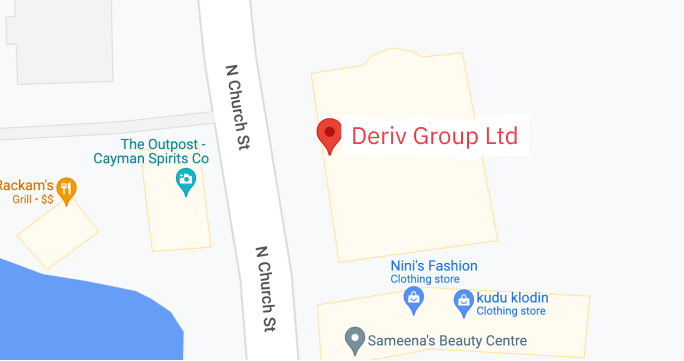
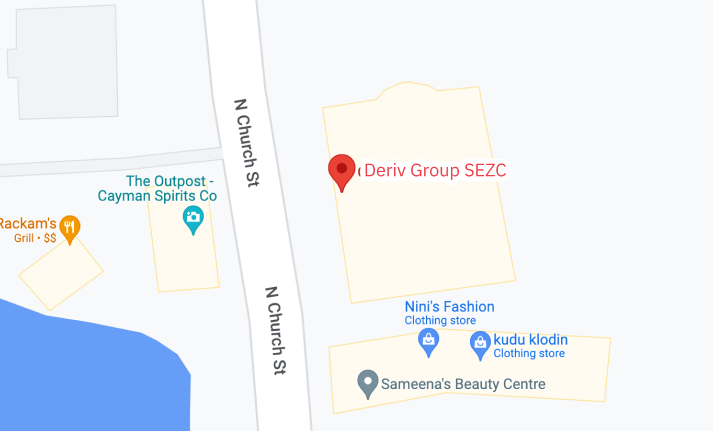
Konstantinos / [FE Deriv.com squad] [Office] Update the names in the office location pages for all of the offices (#4030)
* fix: update office names

* chore: fix asuncion name

* auto-pull-translation

* chore: change desc name

* feat: change title and photo

diff --git a/src/pages/careers/_model/_locations/_locations.ts b/src/pages/careers/_model/_locations/_locations.ts
@@ -44,7 +44,7 @@ export const cyberjaya: LocationsType = {
     display_thumbnail_name: 'Cyberjaya',
     display_title_name: 'Cyberjaya',
     img_alt: 'Cyberjaya bridge and lake view',
-    map_office_name: '(Cyberjaya)',
+    map_office_name: 'Services Sdn Bhd',
     country: 'Malaysia',
     flagIcon: MalaysiaFlagIcon,
     thumbnail: 'thumbnail_cyberjaya',
@@ -79,11 +79,11 @@ export const malta: LocationsType = {
     display_thumbnail_name: 'Malta',
     display_title_name: 'Malta',
     img_alt: 'Malta Senglea Church',
-    map_office_name: '(Malta)',
+    map_office_name: '(Europe) Ltd',
     country: 'Malta',
     flagIcon: MaltaFlagIcon,
     thumbnail: 'thumbnail_malta',
-    first_p: `Opened in 2000, Deriv (Malta) is Deriv Group's first office. Our Compliance, Customer Support, and Payment Operations teams based here offer innovative and simplified digital solutions and provide stellar client support, which is a longstanding top priority for Deriv.`,
+    first_p: `Opened in 2000, Deriv (Europe) Ltd is Deriv Group's first office. Our Compliance, Customer Support, and Payment Operations teams based here offer innovative and simplified digital solutions and provide stellar client support, which is a longstanding top priority for Deriv.`,
     first_img: 'living_in_malta',
     first_img_alt: 'Beach and boats in Malta',
     grid_images: ['malta_grid_1', 'malta_grid_2', 'malta_grid_3', 'malta_grid_4'],
@@ -97,7 +97,7 @@ export const malta: LocationsType = {
     badge: 'malta_great_place_to_work_badge',
     badge_alt: 'Malta Great Place to Work 2022 Certification Badge',
     map_text:
-        'Deriv (Malta) has a dynamic work culture. We perform a wide range of tasks crucial to the company’s sustainability and ambition. If work challenges excite you and being completely hands-on thrills you, join our team in Malta.',
+        'Deriv (Europe) Ltd has a dynamic work culture. We perform a wide range of tasks crucial to the company’s sustainability and ambition. If work challenges excite you and being completely hands-on thrills you, join our team in Malta.',
     address: address_malta,
     google_map_link: 'https://g.page/r/CRyKELlnWQ3iEAE',
     has_iframe: true,
@@ -113,11 +113,11 @@ export const dubai: LocationsType = {
     display_thumbnail_name: 'Dubai',
     display_title_name: 'Dubai',
     img_alt: 'Dubai Skyscrappers',
-    map_office_name: '(Dubai)',
+    map_office_name: 'DMCC',
     country: 'United Arab Emirates',
     flagIcon: UAEFlagIcon,
     thumbnail: 'thumbnail_dubai',
-    first_p: `At Deriv (Dubai), our diverse and experienced Marketing, Quality Assurance, Customer Support, and Compliance teams combine their knowledge and experience to provide digital solutions and establish a sustainable relationship with our clients.`,
+    first_p: `At Deriv DMCC, our diverse and experienced Marketing, Quality Assurance, Customer Support, and Compliance teams combine their knowledge and experience to provide digital solutions and establish a sustainable relationship with our clients.`,
     first_img: 'living_in_dubai',
     first_img_alt: 'Crowd gathering',
     grid_images: ['dubai_grid_1', 'dubai_grid_2', 'dubai_grid_3', 'dubai_grid_4'],
@@ -129,7 +129,7 @@ export const dubai: LocationsType = {
     ],
     map: 'ChIJoXO3yRZtXz4RPzg6AXRz1iU',
     map_text:
-        'Deriv (Dubai) provides limitless opportunities to grow. Here, you can work on remarkable projects that showcase your mettle on a global scale. You will have the scope to expand your career horizontally and vertically. If you are keen on learning and enjoy a fulfilling career journey, join our team in Dubai.',
+        'Deriv DMCC provides limitless opportunities to grow. Here, you can work on remarkable projects that showcase your mettle on a global scale. You will have the scope to expand your career horizontally and vertically. If you are keen on learning and enjoy a fulfilling career journey, join our team in Dubai.',
     address: address_dubai,
     google_map_link: 'https://goo.gl/maps/xx4q4ui1NhgVtE8J7',
     has_iframe: true,
@@ -147,12 +147,12 @@ export const labuan: LocationsType = {
     display_thumbnail_name: 'Labuan',
     display_title_name: 'Labuan',
     img_alt: 'Labuan clock tower',
-    map_office_name: '(Labuan)',
+    map_office_name: '(FX) Ltd',
     country: 'Malaysia',
     flagIcon: MalaysiaFlagIcon,
     thumbnail: 'thumbnail_labuan',
     first_p:
-        'Deriv (Labuan) is home to a highly skilled workforce comprising of Customer Support, Accounts & Payments, and Compliance teams. Customer satisfaction, the company’s financial health, and compliance with regulations are the main targets of our Labuan team.',
+        'Deriv (FX) Ltd is home to a highly skilled workforce comprising of Customer Support, Accounts & Payments, and Compliance teams. Customer satisfaction, the company’s financial health, and compliance with regulations are the main targets of our Labuan team.',
     first_img: 'living_in_labuan',
     first_img_alt: 'Hot air balloons',
     grid_images: ['labuan_grid_1', 'labuan_grid_2', 'labuan_grid_3', 'labuan_grid_4'],
@@ -182,11 +182,11 @@ export const asuncion: LocationsType = {
     display_thumbnail_name: 'Asunción',
     display_title_name: 'Asunción',
     img_alt: 'Palace of the Lopez - Asuncion',
-    map_office_name: '(Asunción)',
+    map_office_name: 'Paraguay S.A.',
     country: 'Paraguay',
     flagIcon: ParaguayFlagIcon,
     thumbnail: 'thumbnail_asuncion',
-    first_p: `Deriv (Asunción) supports the Latin American market with Marketing, Customer Support, Accounts & Payments, and Back-end teams. The teams are constantly working on activities best suited for brand awareness, empowering customers with solutions, taking care of accounting responsibilities, and strengthening our IT infrastructure.`,
+    first_p: `Deriv Paraguay S.A. supports the Latin American market with Marketing, Customer Support, Accounts & Payments, and Back-end teams. The teams are constantly working on activities best suited for brand awareness, empowering customers with solutions, taking care of accounting responsibilities, and strengthening our IT infrastructure.`,
     first_img: 'living_in_asuncion',
     first_img_alt: 'Taxi and bikes parked nearby road',
     badge: 'asuncion_great_place_to_work_badge',
@@ -200,7 +200,7 @@ export const asuncion: LocationsType = {
     ],
     map: 'ChIJJee11ZCpXZQRmP9o0jGMz98',
     map_text:
-        'The office culture in Deriv (Asunción) is lively and inspires collaboration. The team is young, and they move fast while delivering responsibilities with a focus on impact. The team work together closely and enjoy fun team bonding sessions. If you are on the lookout for a dynamic work environment that fuels career growth, join our team in Asunción.',
+        'The office culture in Paraguay S.A. is lively and inspires collaboration. The team is young, and they move fast while delivering responsibilities with a focus on impact. The team work together closely and enjoy fun team bonding sessions. If you are on the lookout for a dynamic work environment that fuels career growth, join our team in Asunción.',
     address: address_asuncion,
     google_map_link: 'https://goo.gl/maps/uq2GzB97tLumihfN6',
     has_iframe: true,
@@ -216,7 +216,7 @@ export const melaka: LocationsType = {
     display_thumbnail_name: 'Melaka',
     display_title_name: 'Melaka',
     img_alt: 'Dutch square of Melaka',
-    map_office_name: '(Melaka)',
+    map_office_name: 'Services Sdn Bhd',
     country: 'Malaysia',
     flagIcon: MalaysiaFlagIcon,
     thumbnail: 'thumbnail_melaka',
@@ -251,11 +251,11 @@ export const ipoh: LocationsType = {
     display_thumbnail_name: 'Ipoh',
     display_title_name: 'Ipoh',
     img_alt: 'White architecture building in Ipoh',
-    map_office_name: '(Ipoh)',
+    map_office_name: 'Services Sdn Bhd',
     country: 'Malaysia',
     flagIcon: MalaysiaFlagIcon,
     thumbnail: 'thumbnail_ipoh',
-    first_p: `Deriv (Ipoh) is home to two teams: Customer Support, which focuses on effective, efficient, and customer-oriented delivery, and Accounts & Payments, which is responsible for the company's financial health.`,
+    first_p: `Deriv Services Sdn Bhd is home to two teams: Customer Support, which focuses on effective, efficient, and customer-oriented delivery, and Accounts & Payments, which is responsible for the company's financial health.`,
     first_img: 'living_in_ipoh',
     first_img_alt: 'People shopping and clicking picture',
     grid_images: ['ipoh_grid_1', 'ipoh_grid_2', 'ipoh_grid_3', 'ipoh_grid_4'],
@@ -285,12 +285,12 @@ export const cyprus: LocationsType = {
     display_thumbnail_name: 'Limassol',
     display_title_name: 'Limassol',
     img_alt: 'Buildings near beach side - Limassol',
-    map_office_name: '(Limassol)',
+    map_office_name: 'Operations (Cyprus) Ltd',
     country: 'Cyprus',
     flagIcon: CyprusFlagIcon,
     thumbnail: 'thumbnail_cyprus',
     first_p:
-        "Opened in 2020, Deriv (Limassol) houses Back-end, Development, Marketing, and Trading teams. The workforce's energetic and can-do attitude helps complete fast-paced projects and achieve the company's business goals.",
+        "Opened in 2020, Deriv Operations (Cyprus) Ltd houses Back-end Development, Marketing, and Trading teams. The workforce's energetic and can-do attitude helps complete fast-paced projects and achieve the company's business goals. ",
     first_img: 'living_in_cyprus',
     first_img_alt: 'Palm trees on road side',
     grid_images: ['cyprus_grid_1', 'cyprus_grid_2', 'cyprus_grid_3', 'cyprus_grid_4'],
@@ -320,7 +320,7 @@ export const rwanda: LocationsType = {
     display_thumbnail_name: 'Kigali',
     display_title_name: 'Kigali',
     img_alt: 'Blue sky and buildings - Kigali',
-    map_office_name: '(Kigali)',
+    map_office_name: '(RW) Ltd',
     country: 'Rwanda',
     flagIcon: RwandaFlagIcon,
     thumbnail: 'thumbnail_rwanda',
@@ -356,12 +356,12 @@ export const minsk: LocationsType = {
     display_thumbnail_name: 'Minsk',
     display_title_name: 'Minsk',
     img_alt: 'Diamond shape building in Minsk',
-    map_office_name: '(Minsk)',
+    map_office_name: '(BY) LLC',
     country: 'Belarus',
     flagIcon: BelarusFlagIcon,
     thumbnail: 'thumbnail_minsk',
     first_p:
-        'Deriv (Minsk) started its operations in the year 2021 to tap into the regional talent pool. The Customer Support and Front-end teams work towards attaining customer satisfaction and building digital products to give them the best trading experience possible.',
+        'Deriv (BY) LLC started its operations in the year 2021 to tap into the regional talent pool. The Customer Support and Front-end teams work towards attaining customer satisfaction and building digital products to give them the best trading experience possible.',
     first_img: 'living_in_minsk',
     first_img_alt: 'Houses nearby lake',
     grid_images: ['minsk_grid_1', 'minsk_grid_2', 'minsk_grid_3', 'minsk_grid_4'],
@@ -375,7 +375,7 @@ export const minsk: LocationsType = {
     badge: 'minsk_great_place_to_work_badge',
     badge_alt: 'Minsk Great Place to Work 2022 Certification Badge',
     map_text:
-        'The work culture at Deriv (Minsk) is lively and energetic. You will get exposure to global projects and work with highly skilled professionals from across the world. If working for a diverse and thriving team excites you, join our team in Minsk.',
+        'The work culture at Deriv (BY) LLC is lively and energetic. You will get exposure to global projects and work with highly skilled professionals from across the world. If working for a diverse and thriving team excites you, join our team in Minsk.',
     address: address_belarus,
     map_img: 'minsk_map',
     google_map_link: 'https://goo.gl/maps/7wUCJ6zy7P8CsmkD7',
@@ -401,7 +401,7 @@ export const paris: LocationsType = {
     grid_images: ['paris_grid_1', 'paris_grid_2', 'paris_grid_3', 'paris_grid_4'],
     map: 'ChIJHzsdKOdv5kcRCRcM_lUIW14',
     map_text:
-        'Deriv (France) is the heart of our research and development. We have an elite think tank in this centre that helps create our next generation of online trading products. If you’re looking for new fintech challenges to embrace, join our team in Paris.',
+        'Deriv (France) SAS is the heart of our research and development. We have an elite think tank in this centre that helps create our next generation of online trading products. If you’re looking for new fintech challenges to embrace, join our team in Paris.',
     address: address_france,
     map_img: 'paris_map',
     google_map_link: 'https://goo.gl/maps/gXhpCta6AsV7bT7y8',
@@ -419,7 +419,7 @@ export const guernsey: LocationsType = {
     display_thumbnail_name: 'Guernsey',
     display_title_name: 'Guernsey',
     img_alt: 'Guernsey alt img',
-    map_office_name: '(Guernsey)',
+    map_office_name: '(Guernsey) Ltd',
     country: 'Channel Islands',
     flagIcon: ChannelIslandsFlagIcon,
     thumbnail: 'thumbnail_guernsey',
@@ -431,7 +431,7 @@ export const guernsey: LocationsType = {
     grid_img_alt: ['guernsey grid 1', 'guernsey grid 2', 'guernsey grid 3', 'guernsey grid 4'],
     map: 'ChIJc-QshyFzDUgRy9q1rkkXFqs',
     map_text:
-        'Deriv (Guernsey) can be an ideal work environment for those who have strong attention to detail, motivation, and interest in law. Joining us at Guernsey gives you the opportunity to analyse regulatory policies, predict changes in fintech regulations, and formulate plans to ensure the efficiency of Deriv Group’s compliance strategies.',
+        'Deriv (Guernsey) Ltd can be an ideal work environment for those who have strong attention to detail, motivation, and interest in law. Joining us at Guernsey gives you the opportunity to analyse regulatory policies, predict changes in fintech regulations, and formulate plans to ensure the efficiency of Deriv Group’s compliance strategies.',
     address: address_guernsey,
     map_img: 'guernsey_map',
     google_map_link: 'https://goo.gl/maps/jX1D5CmysqtbMJeh6',
@@ -449,13 +449,13 @@ export const berlin: LocationsType = {
     display_thumbnail_name: 'Berlin',
     display_title_name: 'Berlin',
     img_alt: ' Deriv’s Germany office at Berlin ',
-    map_office_name: '(Germany)',
+    map_office_name: 'Services GmbH',
     country: 'Germany',
     flagIcon: GermanyFlagIcon,
     thumbnail: 'thumbnail_berlin',
     address: address_guernsey,
     first_p:
-        'Deriv (Germany) is our office at the heart of the European Union. Home to tech professionals, this agile office helps the Deriv Group with its most ambitious technological challenges to create future-proof online trading solutions.',
+        'Deriv Services GmbH is our office at the heart of the European Union. Home to tech professionals, this agile office helps the Deriv Group with its most ambitious technological challenges to create future-proof online trading solutions.',
     first_img: 'living_in_berlin',
     first_img_alt: 'Working with Deriv’s Berlin team',
     grid_images: ['guernsey_grid_1', 'guernsey_grid_2', 'berlin_grid_3', 'guernsey_grid_4'],
@@ -475,12 +475,12 @@ export const vanuatu: LocationsType = {
     display_thumbnail_name: 'Port Vila',
     display_title_name: 'Port Vila',
     img_alt: 'Vanuatu alt img',
-    map_office_name: '(Vanuatu)',
+    map_office_name: 'Operations (V) Ltd',
     country: 'Vanuatu',
     flagIcon: VanuatuFlagIcon,
     thumbnail: 'thumbnail_vanuatu',
     first_p:
-        'Deriv (Vanuatu) will be our new office, opening in the second half of 2022.  Benefiting from the regional talent pool, it will assist the Deriv Group in delivering robust online trading solutions with exceptional customer service.',
+        'Deriv Operations (V) Ltd will be our new office, opening in the second half of 2022.  Benefiting from the regional talent pool, it will assist the Deriv Group in delivering robust online trading solutions with exceptional customer service.',
     first_img: 'living_in_vanuatu',
     first_img_alt: 'Deriv’s Vanuatu office at Port Vila',
     grid_images: ['guernsey_grid_1', 'guernsey_grid_2', 'vanuatu_grid_3', 'guernsey_grid_4'],
@@ -504,12 +504,12 @@ export const georgetown: LocationsType = {
     display_thumbnail_name: 'George Town',
     display_title_name: 'the Cayman Enterprise City',
     img_alt: ' Deriv’s Cayman Islands office at George Town ',
-    map_office_name: '(Cayman Islands)',
+    map_office_name: 'Group SEZC',
     country: 'Cayman Islands',
     flagIcon: CaymanFlagIcon,
     thumbnail: 'thumbnail_georgetown',
     first_p:
-        'Deriv Group Ltd’s new base will be in the Cayman Commodities and Derivatives City of the Cayman Enterprise City. This office will serve as a centre for compliance, corporate governance, and operational risk management for the Deriv Group. It will also assist with trading support for the North American time zone. ',
+        ' Deriv Group SEZC’s new base will be in the Cayman Commodities and Derivatives City of the Cayman Enterprise City. This office will serve as a centre for compliance, corporate governance, and operational risk management for the Deriv Group. It will also assist with trading support for the North American time zone.',
     first_img: 'living_in_georgetown',
     first_img_alt: 'Deriv’s office in the Cayman Islands',
     grid_images: ['guernsey_grid_1', 'guernsey_grid_2', 'cayman_map', 'guernsey_grid_4'],
@@ -557,12 +557,12 @@ export const jordan: LocationsType = {
     display_thumbnail_name: 'Amman',
     display_title_name: 'Amman',
     img_alt: 'Jordan alt img',
-    map_office_name: '(Jordan)',
+    map_office_name: 'Group Ltd Jordan LLC (Exempt)',
     country: 'Jordan',
     flagIcon: JordanFlagIcon,
     thumbnail: 'thumbnail_jordan',
     first_p:
-        'Deriv (Jordan) will be our new office, starting its operations later in 2022.  Tapping into the regional talent pool, it will be a software development centre and will also offer general services to the Deriv Group.',
+        'Deriv Group Ltd Jordan LLC (Exempt) will be our new office, starting its operations later in 2022.  Tapping into the regional talent pool, it will be a software development centre and will also offer general services to the Deriv Group.',
     first_img: 'living_in_jordan',
     first_img_alt: 'living_in_jordan alt img',
     grid_images: ['guernsey_grid_1', 'guernsey_grid_2', 'jordan_grid_3', 'guernsey_grid_4'],
@@ -586,12 +586,12 @@ export const singapore: LocationsType = {
     display_thumbnail_name: 'Singapore',
     display_title_name: 'Singapore',
     img_alt: 'Marina Bay Sands - Singapore',
-    map_office_name: '(Singapore)',
+    map_office_name: '(SG) Pte Ltd.',
     country: 'Singapore',
     flagIcon: SingaporeFlagIcon,
     thumbnail: 'thumbnail_singapore',
     first_p:
-        'Deriv (Singapore) will be a new office in Southeast Asia, opening in the second half of 2022.  Strategically situated in the regional financial hub, it will focus on developing innovative derivative trading solutions, particularly for trading CFDs.',
+        'Deriv (SG) Pte Ltd. will be a new office in Southeast Asia, opening in the second half of 2022. Strategically situated in the regional financial hub, it will focus on developing innovative derivative trading solutions, particularly for trading CFDs.',
     first_img: 'living_in_singapore',
     first_img_alt: 'Deriv’s Singapore office',
 
@@ -617,7 +617,7 @@ export const ciudad: LocationsType = {
     display_thumbnail_name: 'Ciudad del Este',
     display_title_name: 'Ciudad del Este',
     img_alt: 'Paraguay office at Ciudad del Este',
-    map_office_name: '(Ciudad del Este)',
+    map_office_name: 'Paraguay S.A.',
     country: 'Paraguay',
     flagIcon: ParaguayFlagIcon,
     thumbnail: 'thumbnail_ciudad',
